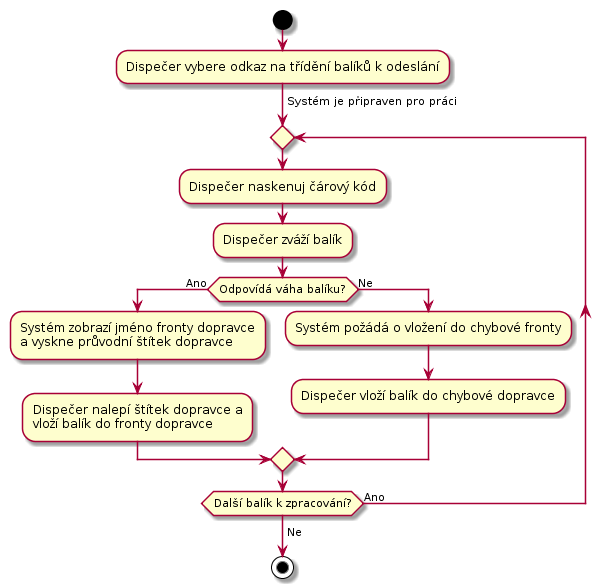
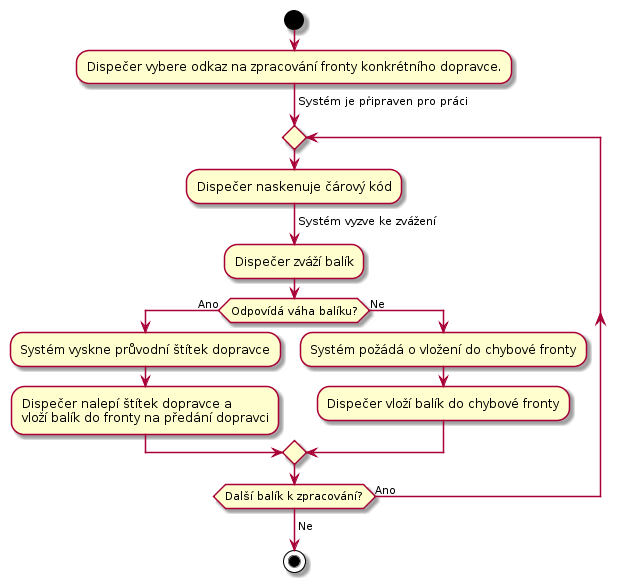
Deployed da0de72 with MkDocs version: 1.1

Changed region(s): [[0.0, 0.0, 0.9656, 0.9897]]

diff --git a/uc-20/index.html b/uc-20/index.html
@@ -264,8 +264,8 @@
 </li>
       
         <li class="md-nav__item">
-  <a href="#uc-23-zpracovani-baliku-k-doruceni" class="md-nav__link">
-    UC-23 - Zpracování balíků 'k doručení'
+  <a href="#uc-23-zpracovani-baliku-ve-fronte-dopravce" class="md-nav__link">
+    UC-23 - Zpracování balíků ve frontě dopravce
   </a>
   
 </li>
@@ -438,8 +438,8 @@
 </li>
       
         <li class="md-nav__item">
-  <a href="#uc-23-zpracovani-baliku-k-doruceni" class="md-nav__link">
-    UC-23 - Zpracování balíků 'k doručení'
+  <a href="#uc-23-zpracovani-baliku-ve-fronte-dopravce" class="md-nav__link">
+    UC-23 - Zpracování balíků ve frontě dopravce
   </a>
   
 </li>
@@ -480,49 +480,42 @@
 <p><strong>TODO na zacatku se vzdy tiskne stitek na balik</strong></p>
 <p><strong>TODO frontu k odeslani nahradit frontama dopravcu</strong></p>
 <p><strong>TODO Doplnit obrazovky</strong></p>
+<p><strong>TODO Obrazovky</strong></p>
 <p><strong>TODO Zohlednit, pripad, ze dopravce prinesl nedorucitelne nebo odmitnute baliky.</strong>  </p>
 <p>Dispečer je na depu. Depo je místo, kam se doručují balíky a s něho zase vydávají dalšímu doručování. Z depa se mohou balíky vydávat přepravní společnosti, nebo se mohou vydat k doručení do dalšího depa. V aktuální verzi s posílaním do dalšího depa nepočítáme. </p>
-<p>Balíky jsou rozděleny do takzvaných front. To jsou místa, kde se mohou nechat do další práce s nimi. Fronty budou tyto:</p>
+<p>Balíky jsou rozděleny do takzvaných front. To jsou místa, kde jsou balíky umístěny do dalšího zpracování. Fronty budou tyto:</p>
 <ul>
 <li>Přijímací fronta - Zde jsou balíky čekající na zpracování v UC-21.</li>
 <li>Čekací fronta - Zde balíky čekají, až zákazník zaplatí za přepravu.</li>
-<li>K doručení - Balíky z této fronty se rozdělí dopravcům.</li>
-<li>Chybová fronta - zde budou chybové balíky. Které napríklad nelze dohledat v systému, nemají kód nebo hrubě neodpovídají rozměrama.</li>
-<li>Fronty pro přepravce, napřiklad fronta pro předání DPD k finálnímu doručení adresátovi.</li>
+<li>Chybová fronta - Fronta pro chybové balíky. Které například nelze dohledat v systému, nemají kód nebo hrubě neodpovídají rozměry.</li>
+<li>Fronty pro dopravce - Každý dopravce bude mít svojí frontu, ze které mu budem balíky vydávat. Bude to například fronta pro předání DPD.</li>
 </ul>
 <h2 id="uc-20-prijeti-baliku"><a name="UC-20"></a>UC-20 - Přijetí balíků</h2>
-<p>Dispecer přijme balíky od dopravce a dá je do přijímací fronty k dalšímu zpracování. </p>
-<p>Dispečer potvrdí převzetí balíku podepsáním protokolu dopravce.</p>
+<p>Dispečer přijme balíky od dopravce a dá je do přijímací fronty k dalšímu zpracování. Dispečer potvrdí převzetí balíku podepsáním protokolu dopravce.</p>
 <h2 id="uc-21-zpracovani-prijatych-baliku"><a name="UC-21"></a>UC-21 - Zpracování přijatých balíků</h2>
 <p>Přijate balíky je třeba vložit do systému. Dispečer bude frontu balíků zpracovávat následovně: </p>
 <p><img alt="Proces zpracování přijatých balíků" src="../diagrams/out/uc-21-activity-1.png" title="Proces zpracování přijatých balíků" /></p>
 <p>Zpracovaní jednoho balíku je pro srozumitelnost na samostatném obrázku:</p>
-<p><img alt="Proces zpracování přijatých balíků" src="../diagrams/out/uc-21-activity-2.png" title="Proces zpracování přijatých balíků" /></p>
-<p>Dispečer na balík tiskne <a href="../templates/#T-06">interní štítek</a>. Je třeba na balík v procesu nalepit interní štítek co nejdřív. V případě chyby to usnadní pozdější práci s balíkem a jeho sníží možnost omylu.</p>
-<p>To jestli naměřené rozměry odpovídají zadaným zjistíme tak, že seřadíme všechny hodnoty podle velikosti a pak porovnáme s těmi hodnotami, co zadal dispečer stejně seřazenými. Jednotlivé hodnoty porovnáme tak, že pokud se budou lišit o méně než 5 cm, pak je budem považovat za shodné. Pokud se dále nebudou odlišovat o více než 10%, pak je budem považovat za shodné. Váha se bude porovnávat s tolerancí 10%.</p>
-<p>V případě, že balík nemá na sobě kód, pak se zkontroluje adresa odesílatele a příjemce a pokud systém vyhodnotí, že to lze, vytiskne se štítek.</p>
-<p><img alt="Proces zpracování přijatých balíků" src="../diagrams/out/uc-21-activity-3.png" title="Proces zpracování přijatých balíků" /></p>
-<p>Pokud jsou adresy shodné, tak se štítek tisknou nemusí, protože odesílatel může posílat dva různé balíky jednomu adresátovi. </p>
-<p><strong>TODO Obrazovky</strong></p>
+<p><img alt="Proces zpracování balíku" src="../diagrams/out/uc-21-activity-2.png" title="Proces zpracování balíku" /></p>
+<p>Ve všech případech dispečer na balík tiskne <a href="../templates/#T-06">interní štítek</a>. Interní štítek musí byt nalepen tak, aby nepřekrýval informace, které na balík zadal odesílatel. Informace od odesílatele se mohou hodit pro pozdější řešení chyb.</p>
+<p>To jestli naměřené rozměry odpovídají těm, které zadal zákazník do objednávky zjistíme následovně. Seřadíme hodnoty ż obou skupin podle velikosti a pak navzájem porovnáme od nejmenší dvojice po nejvyšší. Tím odstraníme chybu, kdy zákazník zadá rozměry ve špatném pořadí. Jednotlivé hodnoty porovnáme tak, že pokud se budou lišit o méně než 5 cm, pak je budem považovat za shodné. Pokud se dále nebudou odlišovat o více než 10%, pak je budem považovat za shodné. Váha se bude porovnávat s tolerancí 10%.</p>
 <h2 id="uc-22-zpracovani-baliku-v-cekaci-fronte"><a name="UC-22"></a>UC-22 - Zpracování balíků v 'čekací frontě'</h2>
-<p>Dispečer v systému otevře stránku pro zpracování fronty ‘čekajících balíků’ a bere po jednom začne balíky zpracovávat.</p>
+<p>Dispečer v systému otevře stránku pro zpracování fronty ‘čekajících balíků’. Pak začne zpracovávat balíky jeden po druhém v libovolném poředí.</p>
 <p><img alt="Proces zpracování čekajících balíků" src="../diagrams/out/uc-22-activity.png" title="Proces zpracování čekajících balíků" /></p>
-<p>Do chybové fronty se balík přesune například, když zákazním nezaplatí déle než definovanou dobu a supportu se jestě nepodařilo se zákazníkem domluvit co s balíckem dál dělat.</p>
-<p>Do fronty k doručení se balík přesune, v případě že zákazník zruší objednávku a budem balík budem posílat zákazníkovi zpět.</p>
+<p>Do chybové fronty se balík přesune například, když zákazním nezaplatí déle než definovanou dobu a pracovníkovi podpory se jestě nepodařilo se zákazníkem domluvit co s balíckem dál dělat.</p>
 <p>Dispečer se může kdykoliv během zpracovávání fronty rozhodnout činnost přerušit.</p>
-<h2 id="uc-23-zpracovani-baliku-k-doruceni"><a name="UC-23"></a>UC-23 - Zpracování balíků 'k doručení'</h2>
-<p>Dispečer v systému otevře stránku pro zpracování fronty 'k doručení' a bere po jednom začne balíky zpracovávat.</p>
-<p>Čtečkou čárových kódů načte z interního štítku kód balíčku. Systém řekne k jakému dopravci je balíček určen, tedy do jaké fronty dopravce má balíček vložit. Dispečer vloží balíček do dané fronty, potvrdí to v systému a pokračuje na další balíček.</p>
-<p><img alt="Proces zpracování balíků 'k doručení'" src="../diagrams/out/uc-23-activity.png" title="Proces zpracování balíků 'k doručení'" /></p>
-<p>Po vážení se aktuální váha balíku porovná s hodnotou naměřenou po nalepení interního štítku na balík. To by mělo snížit pravděpodobnost, že dojde k záměně balíků, nebo jiné chybě.</p>
+<h2 id="uc-23-zpracovani-baliku-ve-fronte-dopravce"><a name="UC-23"></a>UC-23 - Zpracování balíků ve frontě dopravce</h2>
+<p>Dispečer v systému otevře stránku pro zpracování fronty konkrétního dopravce. Pak začne zpracovávat jeden balík po druhém v libovolném pořadí takto:</p>
+<p>Čtečkou čárových kódů načte z interního štítku kód balíčku. Systém požádá o zvážení balíku. Dispečer ho zváží. Po vážení se aktuální váha balíku porovná s hodnotou naměřenou po nalepení interního štítku na balík. To by mělo snížit pravděpodobnost, že dojde k záměně balíků, nebo jiné chybě. Pokud váha nesedí balík bude vložen do chybové fronty.</p>
+<p><img alt="Zpracování balíků ve frontě dopravce'" src="../diagrams/out/uc-23-activity.png" title="Zpracování balíků ve frontě dopravce" /></p>
 <p>Musí existovat fronta pro Českou poštu. V případě chyby potřebujem poslat balík zpět zákazníkovy.</p>
-<p>Dispečer se může rozhodnout, že činnost přerusí i za situace, když je fronta k doručení zpracovaná jen částečně.</p>
+<p>Dispečer se může rozhodnout, že činnost přeruší i když je fronta k doručení zpracovaná jen částečně.</p>
 <h2 id="uc-24-zpracovani-baliku-v-chybove-fronte"><a name="UC-24"></a>UC-24 - Zpracování balíků v 'chybové' frontě</h2>
-<p>Tady budou balíky s interním štítkem i bez něho. Dispečer balíky projde a spojí s podporou a společně se pokusí balíky identitfikovat a domluvit se na dalším postupu.</p>
+<p>Všechny balíky v této frontě budou mít interní štítek. Dispečer všechny balíky projde. V případě problému se spojí s pracovníkem podpory a společně se pokusí domluvit se na dalším postupu.</p>
 <p>O každém chybovém balíku je záznam v systému, tedy support o každém balíku ví a může je řešit. </p>
 <h2 id="uc-25-predani-baliku-dopravci"><a name="UC-25"></a>UC-25 - Předání balíků dopravci</h2>
 <p>Před tím než dispečer předá balíky z příslušné fronty dopravci, musí připravit předávací protokol. Dispečer v systému najde příslušnou frontu dopravce a stiskne na ní, že jí chce ukončit. na to mu systém vygeneruje předávací protokol, případně jeho kopii.</p>
-<p>Když pro balíky osobně přijde dopravce, dispečer mu předá balíky a si nechá v protokolu potvrdit předání balíků.</p>
+<p>Když pro balíky osobně přijde dopravce, dispečer mu předá balíky a nechá si v protokolu potvrdit předání balíků.</p>
 <p>Zde budeme muset zohlednit různé chování dopravců při předávce balíků.</p>
                 
                   

diff --git a/analyza/index.html b/analyza/index.html
@@ -565,7 +565,7 @@
 </ul>
 <h3 id="dispecer">Dispečer</h3>
 <p>Dispečer je pracovník doručovací služby, odpovědný za činnosti s balíkem od převzetí balíku od dopravce až po předání dalšímu dopravci.</p>
-<p><img alt="Co muze delat Despecer" src="../diagrams/out/ucs-dispecer.png" title="UCS for Dispecer" /></p>
+<p><img alt="Co muze delat Dispečer" src="../diagrams/out/ucs-dispecer.png" title="UCS for Dispečer" /></p>
 <p>Dispečer je v depu. Depo bude umístěné tak, aby bylo v dobrém dosahu dopravců. Co dispečer dělá:</p>
 <ul>
 <li>UC-20 - <a href="../uc-20/#UC-20" title="Přijetí balíku">Přijetí balíku</a>.</li>

diff --git a/changelog/index.html b/changelog/index.html
@@ -369,6 +369,10 @@
 </thead>
 <tbody>
 <tr>
+<td>10.03.2020</td>
+<td>Upraven text a procesní diagramy pro dispečera.</td>
+</tr>
+<tr>
 <td>08.03.2020</td>
 <td>Doplněny UC pro správu uživatelů. Seznam hlavních změn, co je třaba udělat je na začátky všech kapitol.</td>
 </tr>
